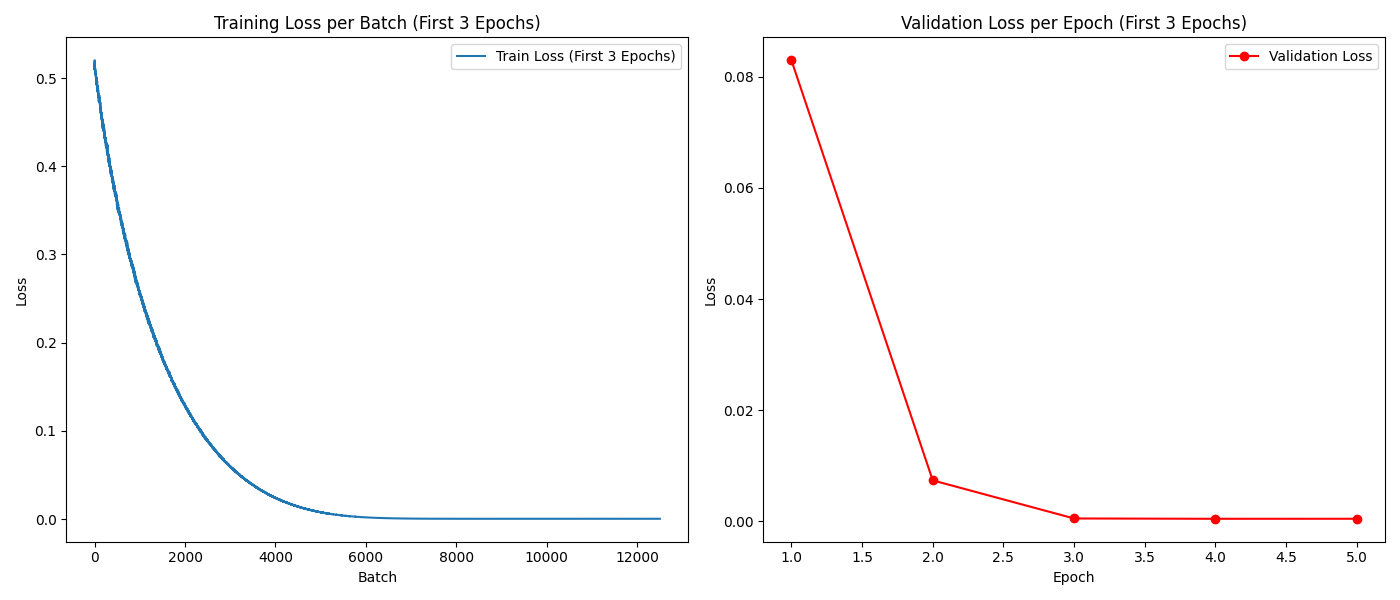
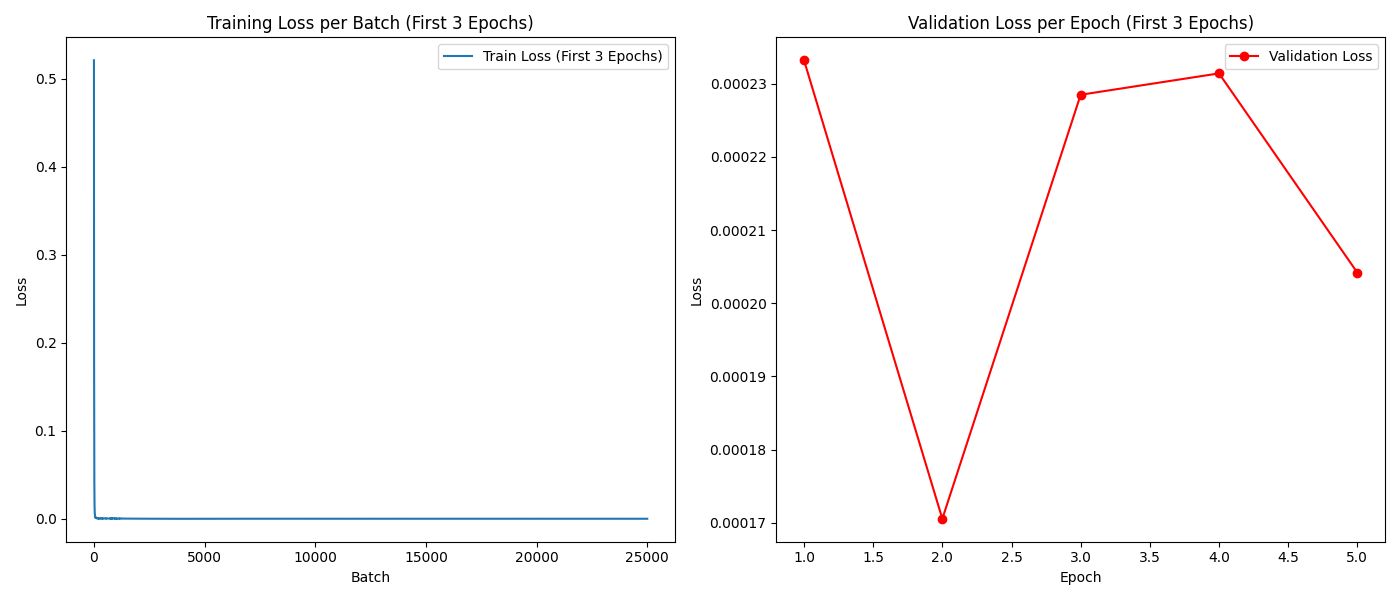
improv in training loss

diff --git a/auto-encoder/train.py b/auto-encoder/train.py
@@ -6,6 +6,8 @@ import torch.nn as nn
 import torch.optim as optim
 import matplotlib.pyplot as plt
 
+from pathlib import Path
+
 from data_loader import get_data_loaders
 from model import AutoEncoder, initialize_weights
 from config import (
@@ -15,10 +17,11 @@ from config import (
     STEP_SIZE,
     GAMMA,
     NUM_EPOCHS,
-    BEST_MODEL_PATH,
+    #BEST_MODEL_PATH,
     PATIENCE,
     RECONSTRUCTIONS_DIR,
-    PLOT_PATH
+    PLOT_PATH,
+    COMPRESSED_DIM
 )
 
 def ensure_dir(directory):
@@ -68,6 +71,8 @@ def train():
     # Define loss and optimizer
     criterion = nn.MSELoss()
     optimizer = optim.Adam(model.parameters(), lr=LEARNING_RATE, weight_decay=WEIGHT_DECAY)
+    #optimizer = optim.AdamW(model.parameters(), lr=LEARNING_RATE, weight_decay=WEIGHT_DECAY)
+
     scheduler = optim.lr_scheduler.StepLR(optimizer, step_size=STEP_SIZE, gamma=GAMMA)
 
     # Training Loop with Early Stopping
@@ -126,7 +131,17 @@ def train():
         if val_epoch_loss < best_val_loss:
             best_val_loss = val_epoch_loss
             trigger_times = 0
-            torch.save(model.state_dict(), f"BEST_MODEL_PATH")
+
+            parent_dir     = Path(f"models_pth/{COMPRESSED_DIM}")
+            checkpoint_tag = f"{val_epoch_loss:.6f}"[2:] + ".pth"
+            checkpoint_dir = parent_dir / checkpoint_tag 
+            
+            print("complete path is >>", checkpoint_dir)
+            parent_dir.mkdir(parents=True, exist_ok=True)
+
+            #os.makedirs(checkpoint_dir, exist_ok=True)
+
+            torch.save(model.state_dict(),checkpoint_dir)
             print(f'Best model saved with Val Loss: {best_val_loss:.6f}')
         else:
             trigger_times += 1
@@ -135,9 +150,8 @@ def train():
                 print('Early stopping triggered')
                 break
         
-        # Optionally, visualize some reconstructions every 10 epochs
-        if (epoch + 1) % 10 == 0:
-            visualize_reconstructions(model, val_loader, epoch+1)
+        #if (epoch + 1) % 10 == 0:
+        #    visualize_reconstructions(model, val_loader, epoch+1)
 
     plot_losses(train_losses_batches, val_losses, num_epochs=5)
     

diff --git a/auto-encoder/embed_auto_enc.py b/auto-encoder/embed_auto_enc.py
@@ -21,7 +21,8 @@ models = {
 import torch.nn as nn
 
 INPUT_DIM = 1024
-COMPRESSED_DIM = int(sys.argv[1])
+COMPRESSED_DIM  = int(sys.argv[1])
+CHECKPOINT_PATH = sys.argv[2]
 
 class AutoEncoder(nn.Module):
     def __init__(self, input_dim=INPUT_DIM, compressed_dim=COMPRESSED_DIM):
@@ -198,7 +199,7 @@ model = SentenceTransformer(models["e5"]).to("cuda")
 
 combined_model = EmbedEncode(
     model=model,
-    autoencoder_path=f'best_encoder_e5_{COMPRESSED_DIM}.pth',  
+    autoencoder_path=f'models_pth/{COMPRESSED_DIM}/{CHECKPOINT_PATH}',  
     input_dim=1024,  
     compressed_dim=COMPRESSED_DIM,
     device='cuda' if torch.cuda.is_available() else 'cpu'
@@ -214,4 +215,4 @@ eval_ = True
 if eval_:
     tasks = mteb.get_tasks(tasks=["NFCorpus"]) 
     evaluation = mteb.MTEB(tasks=tasks, eval_splits=["test"], metric="ndcg@10")
-    results = evaluation.run(combined_model, output_folder = f"results2/e5_auto_enc_{COMPRESSED_DIM}")
+    results = evaluation.run(combined_model, output_folder = f"results2/e5_auto_enc_{COMPRESSED_DIM}_{CHECKPOINT_PATH}")

diff --git a/auto-encoder/config.py b/auto-encoder/config.py
@@ -14,23 +14,24 @@ VAL_SAVE_PATH = os.path.join(SAVE_DIR, "val_embeddings.npz")
 RECONSTRUCTIONS_DIR = "reconstructions"
 
 BATCH_SIZE = 64
-NUM_EPOCHS = 5
+NUM_EPOCHS = 20
 
 # optimizer
-LEARNING_RATE = 1e-5
-WEIGHT_DECAY = 1e-1
+LEARNING_RATE = 1e-3
+WEIGHT_DECAY = 1e-5 
+
 
 # scheduler
-STEP_SIZE = 20
+STEP_SIZE = 4
 GAMMA = 0.1
 
 PATIENCE = 10
 
 # autoenc
 INPUT_DIM = 1024 
-COMPRESSED_DIM = 1024
+COMPRESSED_DIM = 256
 
-BEST_MODEL_PATH = f"models_pth/best_encoder_e5_{COMPRESSED_DIM}_NO_BN.pth"
+#BEST_MODEL_PATH = f"models_pth/{COMPRESSED_DIM}/"
 PLOT_PATH= f"loss_curve_{COMPRESSED_DIM}_6.pth"
 
 # can we optimmize this? why 64 work worse? where do you even need it?

diff --git a/auto-encoder/README.md b/auto-encoder/README.md
@@ -1,6 +1,6 @@
 Some numbers on e5 (output dim 1024), ndcg@10 on NFCorpus. The auto-encoders are trained  on 160k cleaned passages of wikipedia.  
 
-|   mension | ndcg@10 |
+|  dim      | ndcg@10 |
 |-----------|---------|
 | 1024      | 0.28966 |
 | 900       | 0.29149 |
@@ -11,10 +11,16 @@ Some numbers on e5 (output dim 1024), ndcg@10 on NFCorpus. The auto-encoders are
 
 
 
+| 256 | 0.23603 |  adam
+
+
+
 ### TODO:
 
 * Try better auto-encoders (better learning strategies, etc)
-* Try sim. metrics on s Sparse auto-encoder 
+* Train a on Sparse auto-encoder, and see if sim tests holds.
+
+
 
 
 
